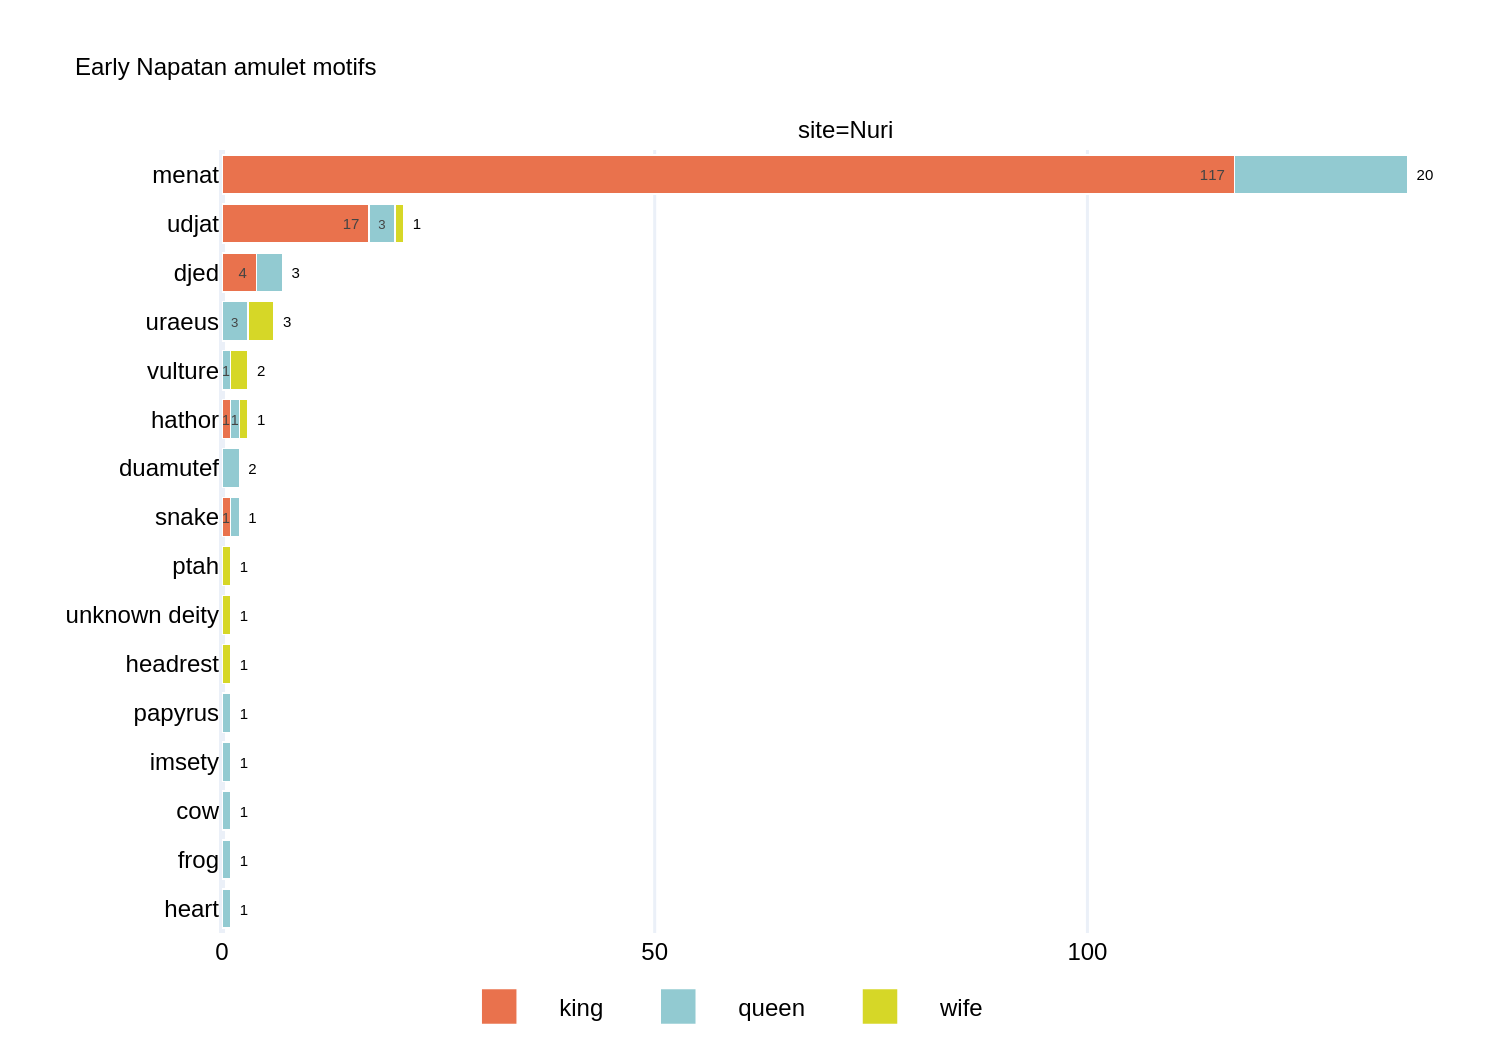
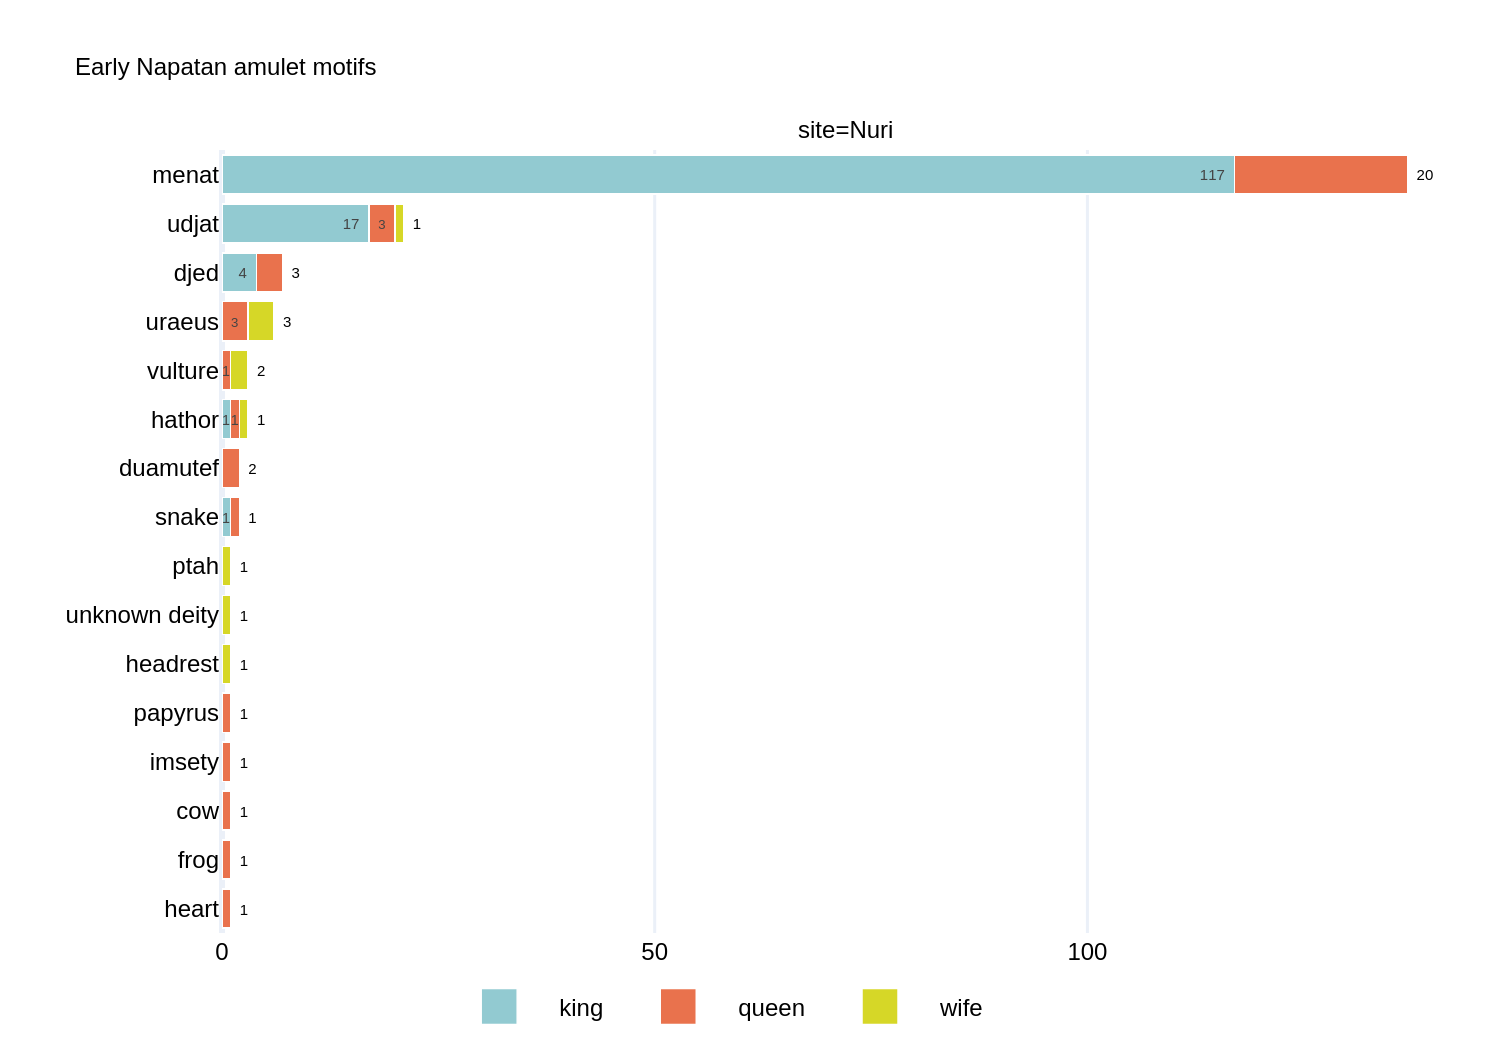
news

diff --git a/amulets_mat_25_kurru.py b/amulets_mat_25_kurru.py
@@ -9,43 +9,46 @@ query = """
 SELECT 
     s.site_name,
     b.owner,
-    a.artifact_type,
-    COUNT(artifact_id) as count
+    CASE
+        WHEN a.material = 'lapis' THEN 'lapis lazuli'
+        ELSE a.material
+    END AS material,
+    COUNT(amulet_id) as count
 FROM burials b
 JOIN sites s
 ON s.site_id = b.site_id
-JOIN artifacts a
+JOIN amulets a
 ON a.burial_id = b.burial_id
-WHERE temp = 'early napatan' AND b.site_id IN (2) AND artifact_type NOT IN ('beads', 'shabtis', 'ceramic vessels')
+WHERE temp = '25th dyn.' AND b.site_id IN (1) AND a.material IS NOT NULL
 GROUP BY 1,2,3
 """
 
 df = pd.read_sql(query, engine)
 
-custom_colors = ['#92cad1', '#e9724d', '#d6d727', '#79ccb3', '#868686']
+custom_colors = ['#e9724d', '#92cad1', '#d6d727', '#79ccb3', '#868686']
 
 fig = px.bar(
     df,
-    x="artifact_type",
-    y="count",
+    x="count",
+    y="material",
     color="owner",
     facet_col="site_name",
-    #text='count',
+    text='count',
     barmode='stack',
-    title="Early Napatan object types",
+    title="25th Dynasty amulet materials",
     labels={"owner": "owner", "artifact_type": "obj. type", "site_name": "site"},
     color_discrete_sequence=custom_colors,
     template="plotly_white"
 )
 
-fig.update_layout(xaxis={'categoryorder': 'total descending'}, 
+fig.update_layout(yaxis={'categoryorder': 'total ascending'}, 
     legend=dict(
-        #orientation="h",
-        yanchor="top",
-        y=0.80,
-        xanchor="right",
-        x=0.93,
-        traceorder='reversed'),
+        orientation="h",
+        yanchor="bottom",
+        y=-0.24,
+        xanchor="center",
+        x=0.40),
+        #traceorder='reversed'),
     font=dict(
         family="Verdana, sans-serif",
         color='black',
@@ -59,8 +62,8 @@ fig.update_layout(xaxis={'categoryorder': 'total descending'},
     title_font=dict(size=8)
 )
 
-fig.update_traces(textposition='outside')
-fig.update_xaxes(title_text='', tickangle=45)
+fig.update_traces(textposition='outside', textfont_size=6)
+fig.update_xaxes(title_text='')
 fig.update_yaxes(title_text='')
 
-pio.write_image(fig, 'images/objs_early_nuri.png',scale=3, width=500, height=350)
+pio.write_image(fig, 'images/amulets_mat_25_kurru.png',scale=3, width=500, height=250)

diff --git a/amulets_mat_25_nuri.py b/amulets_mat_25_nuri.py
@@ -16,13 +16,13 @@ JOIN sites s
 ON s.site_id = b.site_id
 JOIN amulets a
 ON a.burial_id = b.burial_id
-WHERE temp = '25th dyn.' AND b.site_id IN (1,2) AND a.material IS NOT NULL
+WHERE temp = '25th dyn.' AND b.site_id IN (2) AND a.material IS NOT NULL
 GROUP BY 1,2,3
 """
 
 df = pd.read_sql(query, engine)
 
-custom_colors = ['#e9724d', '#92cad1', '#d6d727', '#79ccb3', '#868686']
+custom_colors = ['#92cad1', '#e9724d','#d6d727', '#79ccb3', '#868686']
 
 fig = px.bar(
     df,
@@ -31,7 +31,7 @@ fig = px.bar(
     color="owner",
     facet_col="site_name",
     text='count',
-    barmode='group',
+    barmode='stack',
     title="25th Dynasty amulet materials",
     labels={"owner": "owner", "artifact_type": "obj. type", "site_name": "site"},
     color_discrete_sequence=custom_colors,
@@ -42,10 +42,10 @@ fig.update_layout(yaxis={'categoryorder': 'total ascending'},
     legend=dict(
         orientation="h",
         yanchor="bottom",
-        y=-0.15,
+        y=-0.21,
         xanchor="center",
-        x=0.40,
-        traceorder='reversed'),
+        x=0.40),
+        #traceorder='reversed'),
     font=dict(
         family="Verdana, sans-serif",
         color='black',
@@ -59,8 +59,8 @@ fig.update_layout(yaxis={'categoryorder': 'total ascending'},
     title_font=dict(size=8)
 )
 
-fig.update_traces(textposition='outside')
+fig.update_traces(textposition='outside', textfont_size=6)
 fig.update_xaxes(title_text='')
 fig.update_yaxes(title_text='')
 
-pio.write_image(fig, 'images/amulets_mat_25.png',scale=3, width=500, height=400)
+pio.write_image(fig, 'images/amulets_mat_25_nuri.png',scale=3, width=500, height=270)

diff --git a/amulets_types_early.py b/amulets_types_early.py
@@ -22,7 +22,7 @@ GROUP BY 1,2,3
 
 df = pd.read_sql(query, engine)
 
-custom_colors = ['#e9724d', '#92cad1', '#d6d727', '#79ccb3', '#868686']
+custom_colors = ['#92cad1', '#e9724d', '#d6d727', '#79ccb3', '#868686']
 
 fig = px.bar(
     df,
@@ -31,7 +31,7 @@ fig = px.bar(
     color="owner",
     facet_col="site_name",
     text='count',
-    barmode='group',
+    barmode='stack',
     title="Early Napatan amulet types",
     labels={"owner": "owner", "artifact_type": "obj. type", "site_name": "site"},
     color_discrete_sequence=custom_colors,

diff --git a/amulets_mat_early.py b/amulets_mat_early.py
@@ -9,7 +9,10 @@ query = """
 SELECT 
     s.site_name,
     b.owner,
-    a.material,
+    CASE
+        WHEN a.material = 'lapis' THEN 'lapis lazuli'
+        ELSE a.material
+    END AS material,
     COUNT(amulet_id) as count
 FROM burials b
 JOIN sites s
@@ -22,7 +25,7 @@ GROUP BY 1,2,3
 
 df = pd.read_sql(query, engine)
 
-custom_colors = ['#e9724d', '#92cad1', '#d6d727', '#79ccb3', '#868686']
+custom_colors = ['#92cad1', '#e9724d', '#d6d727', '#79ccb3', '#868686']
 
 fig = px.bar(
     df,

diff --git a/amulets_mat_late.py b/amulets_mat_late.py
@@ -9,7 +9,10 @@ query = """
 SELECT 
     s.site_name,
     b.owner,
-    a.material,
+    CASE
+        WHEN a.material = 'lapis' THEN 'lapis lazuli'
+        ELSE a.material
+    END AS material,
     COUNT(amulet_id) as count
 FROM burials b
 JOIN sites s

diff --git a/amulets_forms_early.py b/amulets_forms_early.py
@@ -65,7 +65,7 @@ GROUP BY 1,2,3
 
 df = pd.read_sql(query, engine)
 
-custom_colors = ['#e9724d', '#92cad1', '#d6d727', '#79ccb3', '#868686']
+custom_colors = ['#92cad1', '#e9724d', '#d6d727', '#79ccb3', '#868686']
 
 fig = px.bar(
     df,
